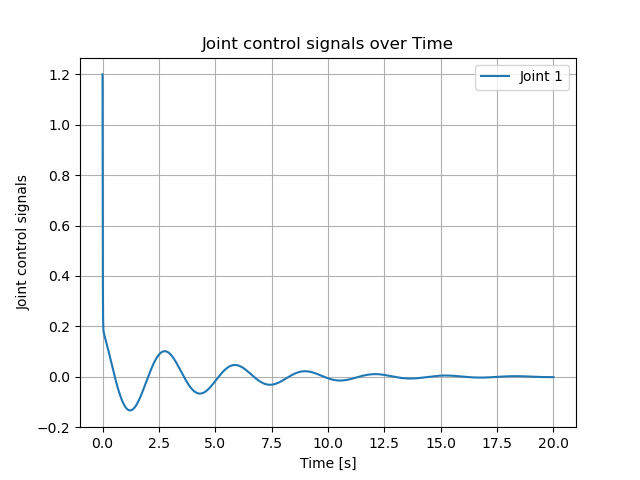
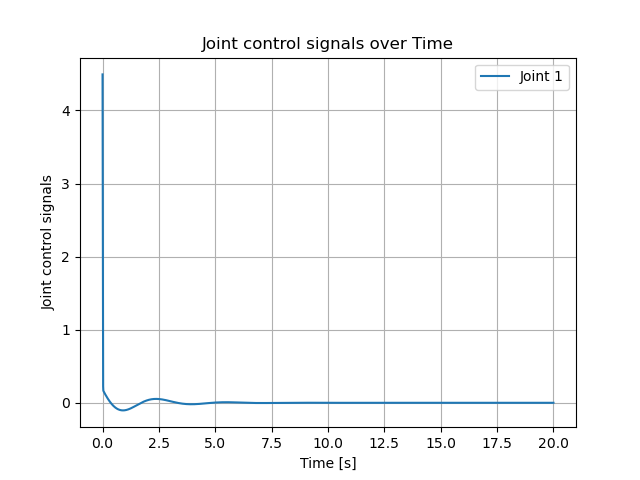
Inv_pendulum_nonlin_control

diff --git a/inv_pendulum_control.py b/inv_pendulum_control.py
@@ -4,8 +4,8 @@ from pathlib import Path
 import pinocchio as pin
 
 # Load the robot model from scene XML
-# model = pin.buildModelFromMJCF("robots/inverted_pendulum/inverted_pendulum.xml")
-# pin_data = model.createData()
+model = pin.buildModelFromMJCF("robots/inverted_pendulum/inverted_pendulum.xml")
+pin_data = model.createData()
 
 
 def controller(q: np.ndarray, dq: np.ndarray, t: float) -> np.ndarray:
@@ -19,21 +19,29 @@ def controller(q: np.ndarray, dq: np.ndarray, t: float) -> np.ndarray:
     Returns:
         tau: Joint torques command [Nm]
     """
-    # Control gains tuned for UR5e
-    kp = np.array([2, 12])
+    # Control gains
+    kp = np.array([4, 14])
     kd = 2 * np.sqrt(kp)
 
-    # M = pin_data.M
-    # print(M)
-    # nle = pin_data.nle
-    # print(nle)
-
     # Target joint configuration
-    qdes = np.array([0.0, 0.0])
+    q_des = np.array([0.0, 0.0])
+    dq_des = np.array([0.0, 0.0])
+    ddq_des = np.array([0.0, 0.0])
+
+    pin.computeAllTerms(model, pin_data, q, dq)
+
+    M = pin_data.M
+    #print(M)
+    nle = pin_data.nle
+    #print(nle)
+
+    u = -(M @ (kp @ (q_des - q) + kd @ (dq_des - dq) + ddq_des) + nle)
+    print(q_des - q)
     
     # PD control law
-    tau = -(kp @ (qdes - q) - kd @ dq)
-    return tau
+    # u = -(kp @ (q_des - q) - kd @ dq)
+
+    return u[1]
 
 def main():
     torque_control = ActuatorMotor(torque_range=[-1.0, 1.0])

diff --git a/simulator/_simulator.py b/simulator/_simulator.py
@@ -263,7 +263,6 @@ class Simulator:
         if self.controls.ndim == 1:
             self.controls = self.controls.reshape(-1, 1)
 
-        print(self.controls.ndim)
         for i in range(self.controls.shape[1]):
             plt.plot(self.times, self.controls[:, i], label=f'Joint {i+1}')
         plt.xlabel('Time [s]')
